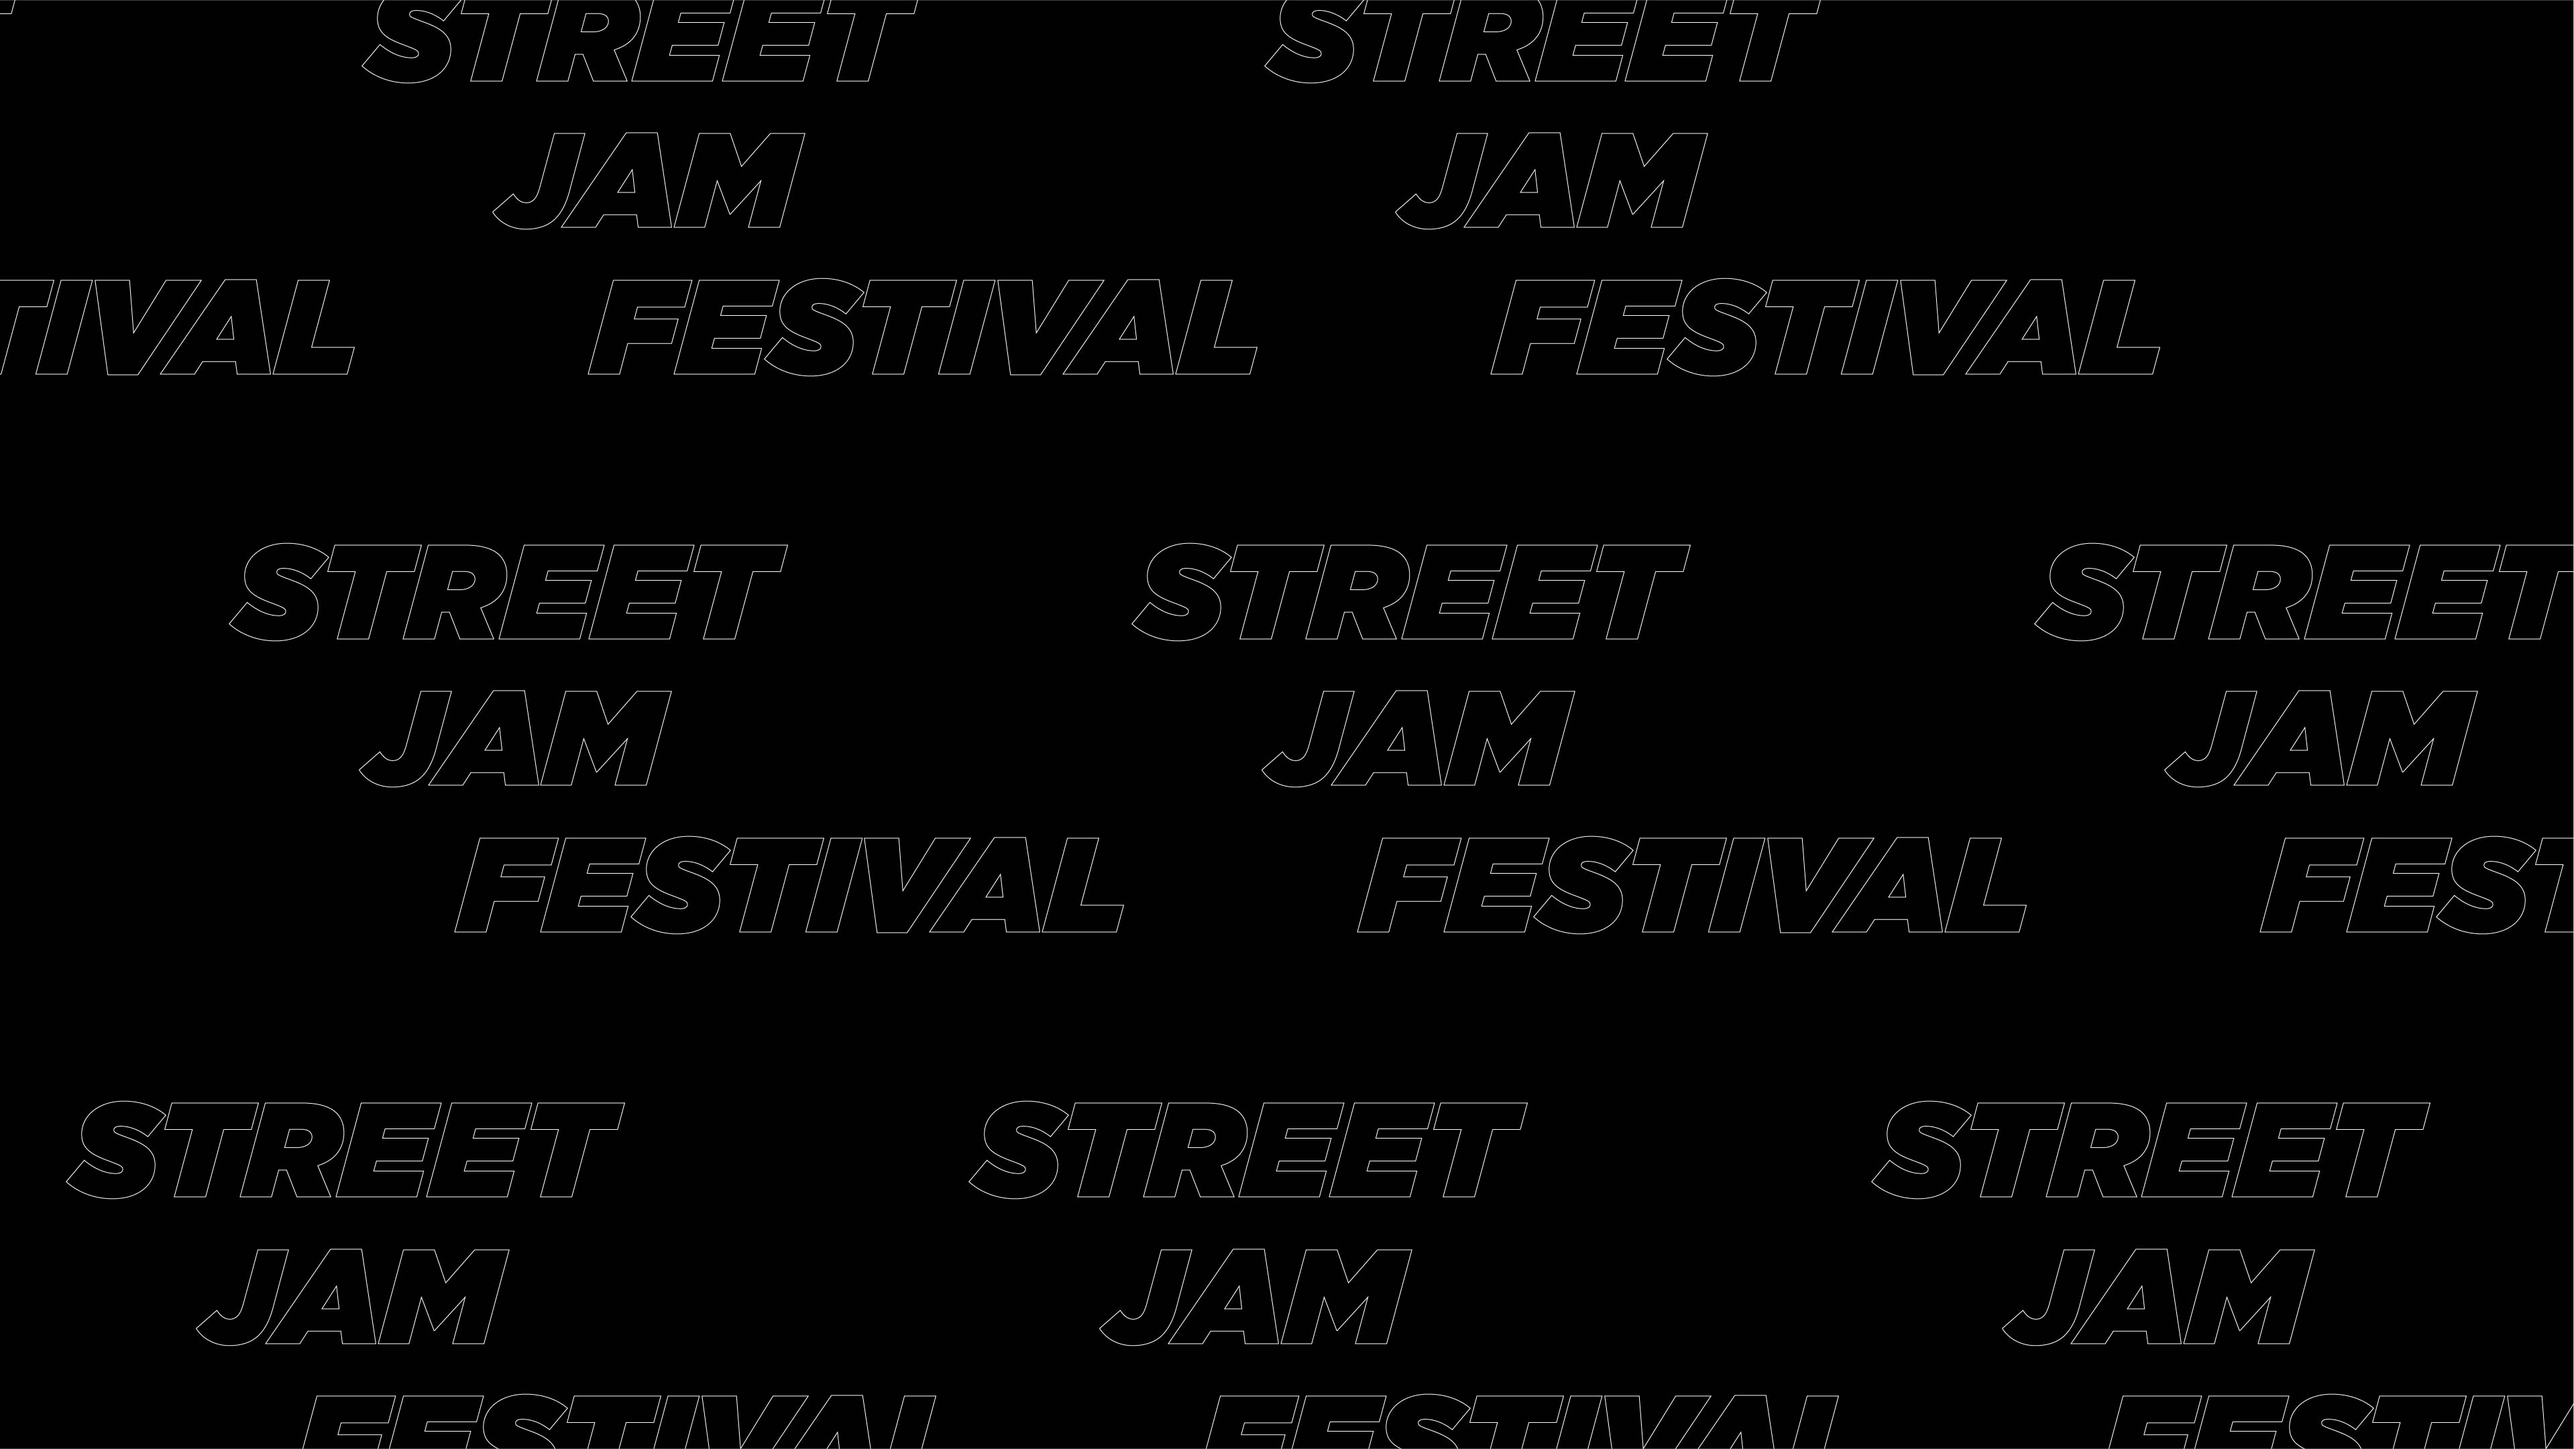
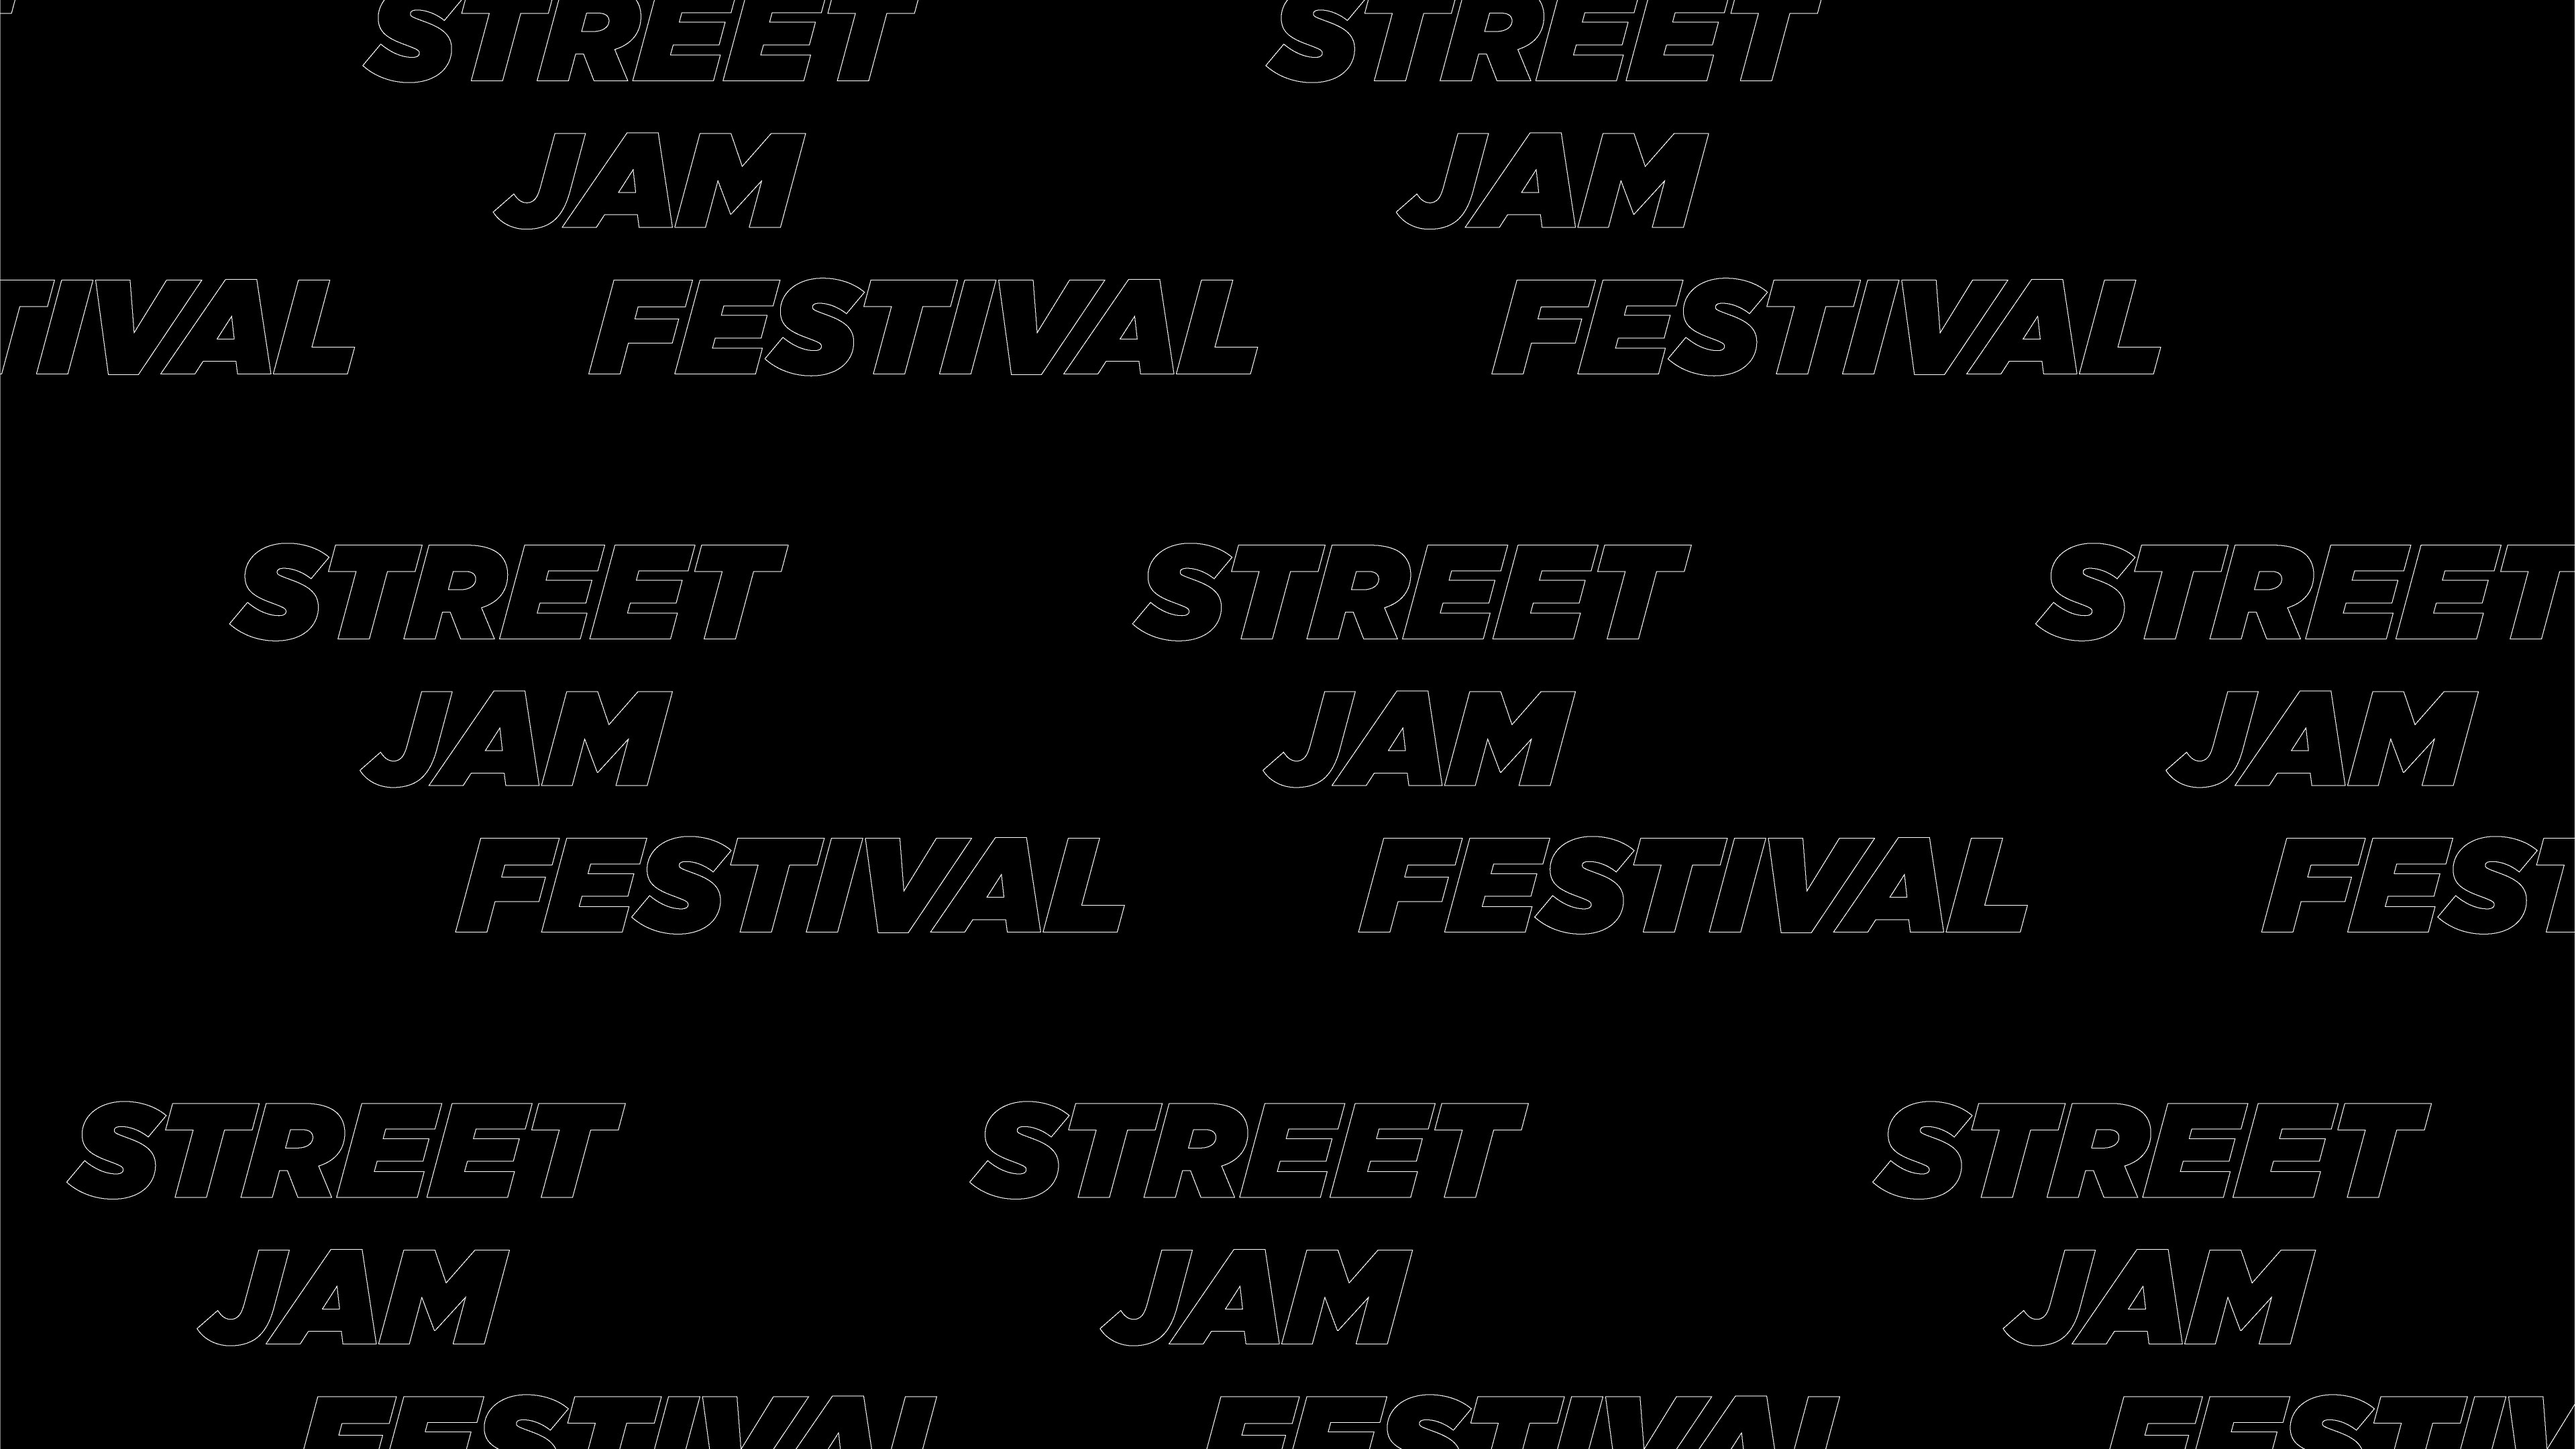
image moinslourde site opti

diff --git a/index.html b/index.html
@@ -20,7 +20,7 @@
         </div>
       </nav>
       <h1>
-        <img src="img/titre.png" alt="">
+        <img src="img/titre.jpg" alt="logo du street jam fest">
       </h1>
       <img class="splitter" src="img/split-header.svg" alt=""> 
     </header>
@@ -41,7 +41,7 @@
           propose également une sélection de stands de restauration proposant une 
           cuisine de rue authentique pour ravir les papilles des visiteurs.
         </p>
-        <img class="cliping" src="img/header.svg" alt="">
+        <img class="cliping" src="img/header.svg" alt="forme triangulaire">
       </div>
       <div class="container">
         <span class="txt">TAG / GRAFFITI / STREET ART/&nbsp;
@@ -83,7 +83,7 @@
       </div>
       <h2>GUEST</h2>
       <div class="stair-case cliping-smooth">
-        <img src="img/split-main.svg" alt="" class="blur">
+        <img src="img/split-main.svg" alt="separateur" class="blur">
         <p class="blur resizing" >
           Nous sommes ravis de vous présentez notre invité d'honneur pour le 
           Street Jam Festival, le célèbre artiste graffeur  Tetra. Originaire 
@@ -104,14 +104,14 @@
           de s'inspirer de son travail unique.
         </p>
       </div> 
-      <img src="img/round-separator.png" alt="">
+      <img src="img/round-separator.png" alt="separateur avec un rond">
       <div class="container">
         <span class="txt">SKATEBOARD / CONTEST / SKATEBOARD/&nbsp;
         <span> 
         <span class="txt">SKATEBOARD / CONTEST / SKATEBOARD/&nbsp;
         <span>
       </div>
-      <img src="img/skateboard.jpg" alt="">
+      <img src="img/skateboard.jpg" alt="skateboarder faisant une figure">
       <div class="blue-part">
         <div class="skate-section">
           <h2>Horaires:</h2>
@@ -224,7 +224,7 @@
         <span class="txt">STREET FOOD / DRINK / STAND /&nbsp;
         <span>
       </div>
-      <img src="img/round-separator.png" alt="">
+      <img src="img/round-separator.png" alt="separateur">
       <p class="info-text light-wait">
         Notre festival vous propose une variété de stands de restauration sur 
         place tout au long de la journée. Vous pourrez notamment découvrir
@@ -286,7 +286,7 @@
       </div>
     </main>
     <footer>
-      <img src="img/footer-separator.png" alt="">
+      <img src="img/footer-separator.png" alt="separateur">
       <div class="blue-part">
         <h2>Contact</h2>
         <p>

diff --git a/css/styles.css b/css/styles.css
@@ -1,6 +1,6 @@
 html {
   background-image: url(../img/street-bg.jpg);
-  background-size: contain;
+  background-size: cover;
   background-repeat: no-repeat;
   background-attachment: fixed;
 }
